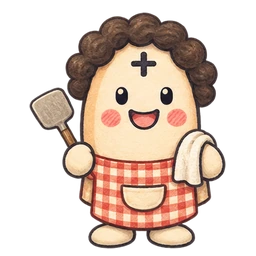
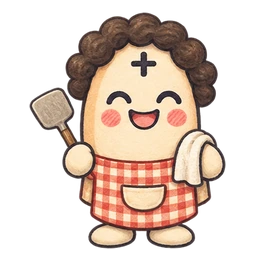
Keep the six repainted mascots’ signature smiley eyes

Changed region(s): [[0.4062, 0.3438, 0.5312, 0.4375], [0.5938, 0.3438, 0.7188, 0.4062]]

diff --git a/src/render/creatureRigs.js b/src/render/creatureRigs.js
@@ -417,8 +417,8 @@ const TOWN_DATA = {
   farmer: { W: 229, H: 300, ref: [9, 9, 218, 296], piv: { body: [0.4694, 0.506], arm: [0.5775, 0.6075], body_blink: [0.4694, 0.506], arm_wave: [0.6228, 0.552] } },
   fletcher: { W: 234, H: 300, ref: [13, 9, 225, 296], piv: { body: [0.5326, 0.5199], arm: [0.3256, 0.5755], body_blink: [0.5326, 0.5199], arm_wave: [0.3592, 0.5372] } },
   // The repainted starter residents share a 256px canvas and a common foot line.
-  guide: { W: 256, H: 256, ref: [42, 12, 214, 249], piv: { body: [0.5, 0.5], body_blink: [0.5, 0.5], arm: [0.6731, 0.6717] } },
-  hawker: { W: 256, H: 256, ref: [29, 12, 226, 249], piv: { body: [0.5, 0.5], body_blink: [0.5, 0.5], arm: [0.3259, 0.631], arm_wave: [0.3259, 0.631] } },
+  guide: { W: 256, H: 256, ref: [42, 12, 214, 249], piv: { body: [0.5, 0.5], arm: [0.6731, 0.6717] } },
+  hawker: { W: 256, H: 256, ref: [29, 12, 226, 249], piv: { body: [0.5, 0.5], arm: [0.3259, 0.631], arm_wave: [0.3259, 0.631] } },
   light_priestess: { W: 220, H: 300, ref: [9, 9, 211, 296], piv: { body: [0.4939, 0.5131], body_blink: [0.4939, 0.5131] } },
   mage: { W: 213, H: 300, ref: [9, 9, 205, 296], piv: { body: [0.4674, 0.5329], arm: [0.6373, 0.6696], body_blink: [0.4674, 0.5329], arm_wave: [0.6175, 0.5624] } },
   mercenary_bruiser: { W: 197, H: 300, ref: [13, 9, 188, 296], piv: { body: [0.4724, 0.5113], arm: [0.1756, 0.48], body_blink: [0.4724, 0.5113], arm_wave: [0.1919, 0.4807] } },
@@ -426,13 +426,13 @@ const TOWN_DATA = {
   mercenary_sellsword: { W: 224, H: 300, ref: [9, 9, 215, 296], piv: { body: [0.4059, 0.5115], arm: [0.5433, 0.5477], body_blink: [0.4059, 0.5115], arm_wave: [0.4939, 0.5129] } },
   mercenary_spear_guard: { W: 173, H: 300, ref: [9, 9, 164, 296], piv: { body: [0.4299, 0.5417], body_blink: [0.4299, 0.5417] } },
   shadow_broker: { W: 223, H: 300, ref: [9, 9, 202, 296], piv: { body: [0.4406, 0.5031], arm: [0.6587, 0.5951], body_blink: [0.4406, 0.5031], arm_wave: [0.6013, 0.5143] } },
-  pest_officer: { W: 256, H: 256, ref: [22, 12, 233, 249], piv: { body: [0.5, 0.5], body_blink: [0.5, 0.5] } },
-  shopkeeper: { W: 256, H: 256, ref: [31, 12, 225, 249], piv: { body: [0.5, 0.5], body_blink: [0.5, 0.5], arm: [0.6722, 0.6133], arm_wave: [0.6722, 0.6133] } },
-  skills_tutor: { W: 256, H: 256, ref: [41, 12, 215, 249], piv: { body: [0.5, 0.5], body_blink: [0.5, 0.5], arm: [0.6693, 0.6656], arm_wave: [0.6693, 0.6656] } },
+  pest_officer: { W: 256, H: 256, ref: [22, 12, 233, 249], piv: { body: [0.5, 0.5] } },
+  shopkeeper: { W: 256, H: 256, ref: [31, 12, 225, 249], piv: { body: [0.5, 0.5], arm: [0.6722, 0.6133], arm_wave: [0.6722, 0.6133] } },
+  skills_tutor: { W: 256, H: 256, ref: [41, 12, 215, 249], piv: { body: [0.5, 0.5], arm: [0.6693, 0.6656], arm_wave: [0.6693, 0.6656] } },
   slayer_master: { W: 234, H: 300, ref: [9, 9, 225, 296], piv: { body: [0.47, 0.5193], body_blink: [0.47, 0.5193] } },
   villager: { W: 244, H: 300, ref: [30, 9, 236, 296], piv: { body: [0.5025, 0.5251], arm: [0.3458, 0.5075], body_blink: [0.5025, 0.5251], arm_wave: [0.39, 0.5022] } },
   aworthling: { W: 200, H: 300, ref: [9, 9, 192, 296], piv: { body: [0.4944, 0.5245], body_blink: [0.4944, 0.5245] } },
-  banker: { W: 256, H: 256, ref: [30, 12, 226, 249], piv: { body: [0.5, 0.5], body_blink: [0.5, 0.5], arm: [0.6848, 0.6109], arm_wave: [0.6848, 0.6109] } },
+  banker: { W: 256, H: 256, ref: [30, 12, 226, 249], piv: { body: [0.5, 0.5], arm: [0.6848, 0.6109], arm_wave: [0.6848, 0.6109] } },
 };
 // --- end of measured data ---
 

diff --git a/src/render/sprites.js b/src/render/sprites.js
@@ -272,7 +272,7 @@ for (const [id, r] of Object.entries(RESIDENTS)) if (!TOWN_ART.has(id) && TOWN_A
 const townFile = (id) => (TOWN_ART.has(id) ? id : TOWN_ALIAS[id] || null);
 // Keep a resident's new portrait and idle layers together in the offline cache.
 const REPAINTED_TOWN_ART = new Set(['banker', 'guide', 'hawker', 'pest_officer', 'shopkeeper', 'skills_tutor']);
-const townArtRevision = (id) => REPAINTED_TOWN_ART.has(id) ? '?v=2' : '';
+const townArtRevision = (id) => REPAINTED_TOWN_ART.has(id) ? '?v=3' : '';
 export const townArtSrc = (id) => TOWN_ART.has(id) ? `assets/creatures/townsfolk/${id}.webp${townArtRevision(id)}` : null;
 const _townImg = {};
 function townImage(id) {
@@ -1187,7 +1187,7 @@ export function drawCreature(ctx, npcId, cx, cy, opts = {}) {
 }
 
 // ---- Townsfolk idle ----
-// The body (eyes open or shut) and near arm (hanging, or raised to wave) are
+// The body, optional blink and near arm (hanging, or raised to wave) are
 // composed into a frame (no white sticker rim: just the navy ink line), and each frame
 // is cached, so a frame costs one blit; breathing is a gentle stretch at draw time.
 const _townRigs = {};
@@ -1224,7 +1224,7 @@ function townFrame(id, d, imgs, h, blink, arm, ang) {
 function drawTownIdle(c, id, imgs, h, t, seed) {
   const d = TOWN_IDLE[id];
   const ph = Math.abs(seed * 37) % 10000;   // each townsperson on their own rhythm
-  const blink = (t + ph) % 4300 < 150;
+  const blink = !!d.piv.body_blink && (t + ph) % 4300 < 150;
   // Every so often a friendly wave (or, without a loose arm, a little nod of
   // the whole body); otherwise the arm hangs, stirring a little.
   const w = ((t + ph * 1.3) % 12000) / 1800, greet = w < 1 ? Math.sin(w * Math.PI) : 0;
